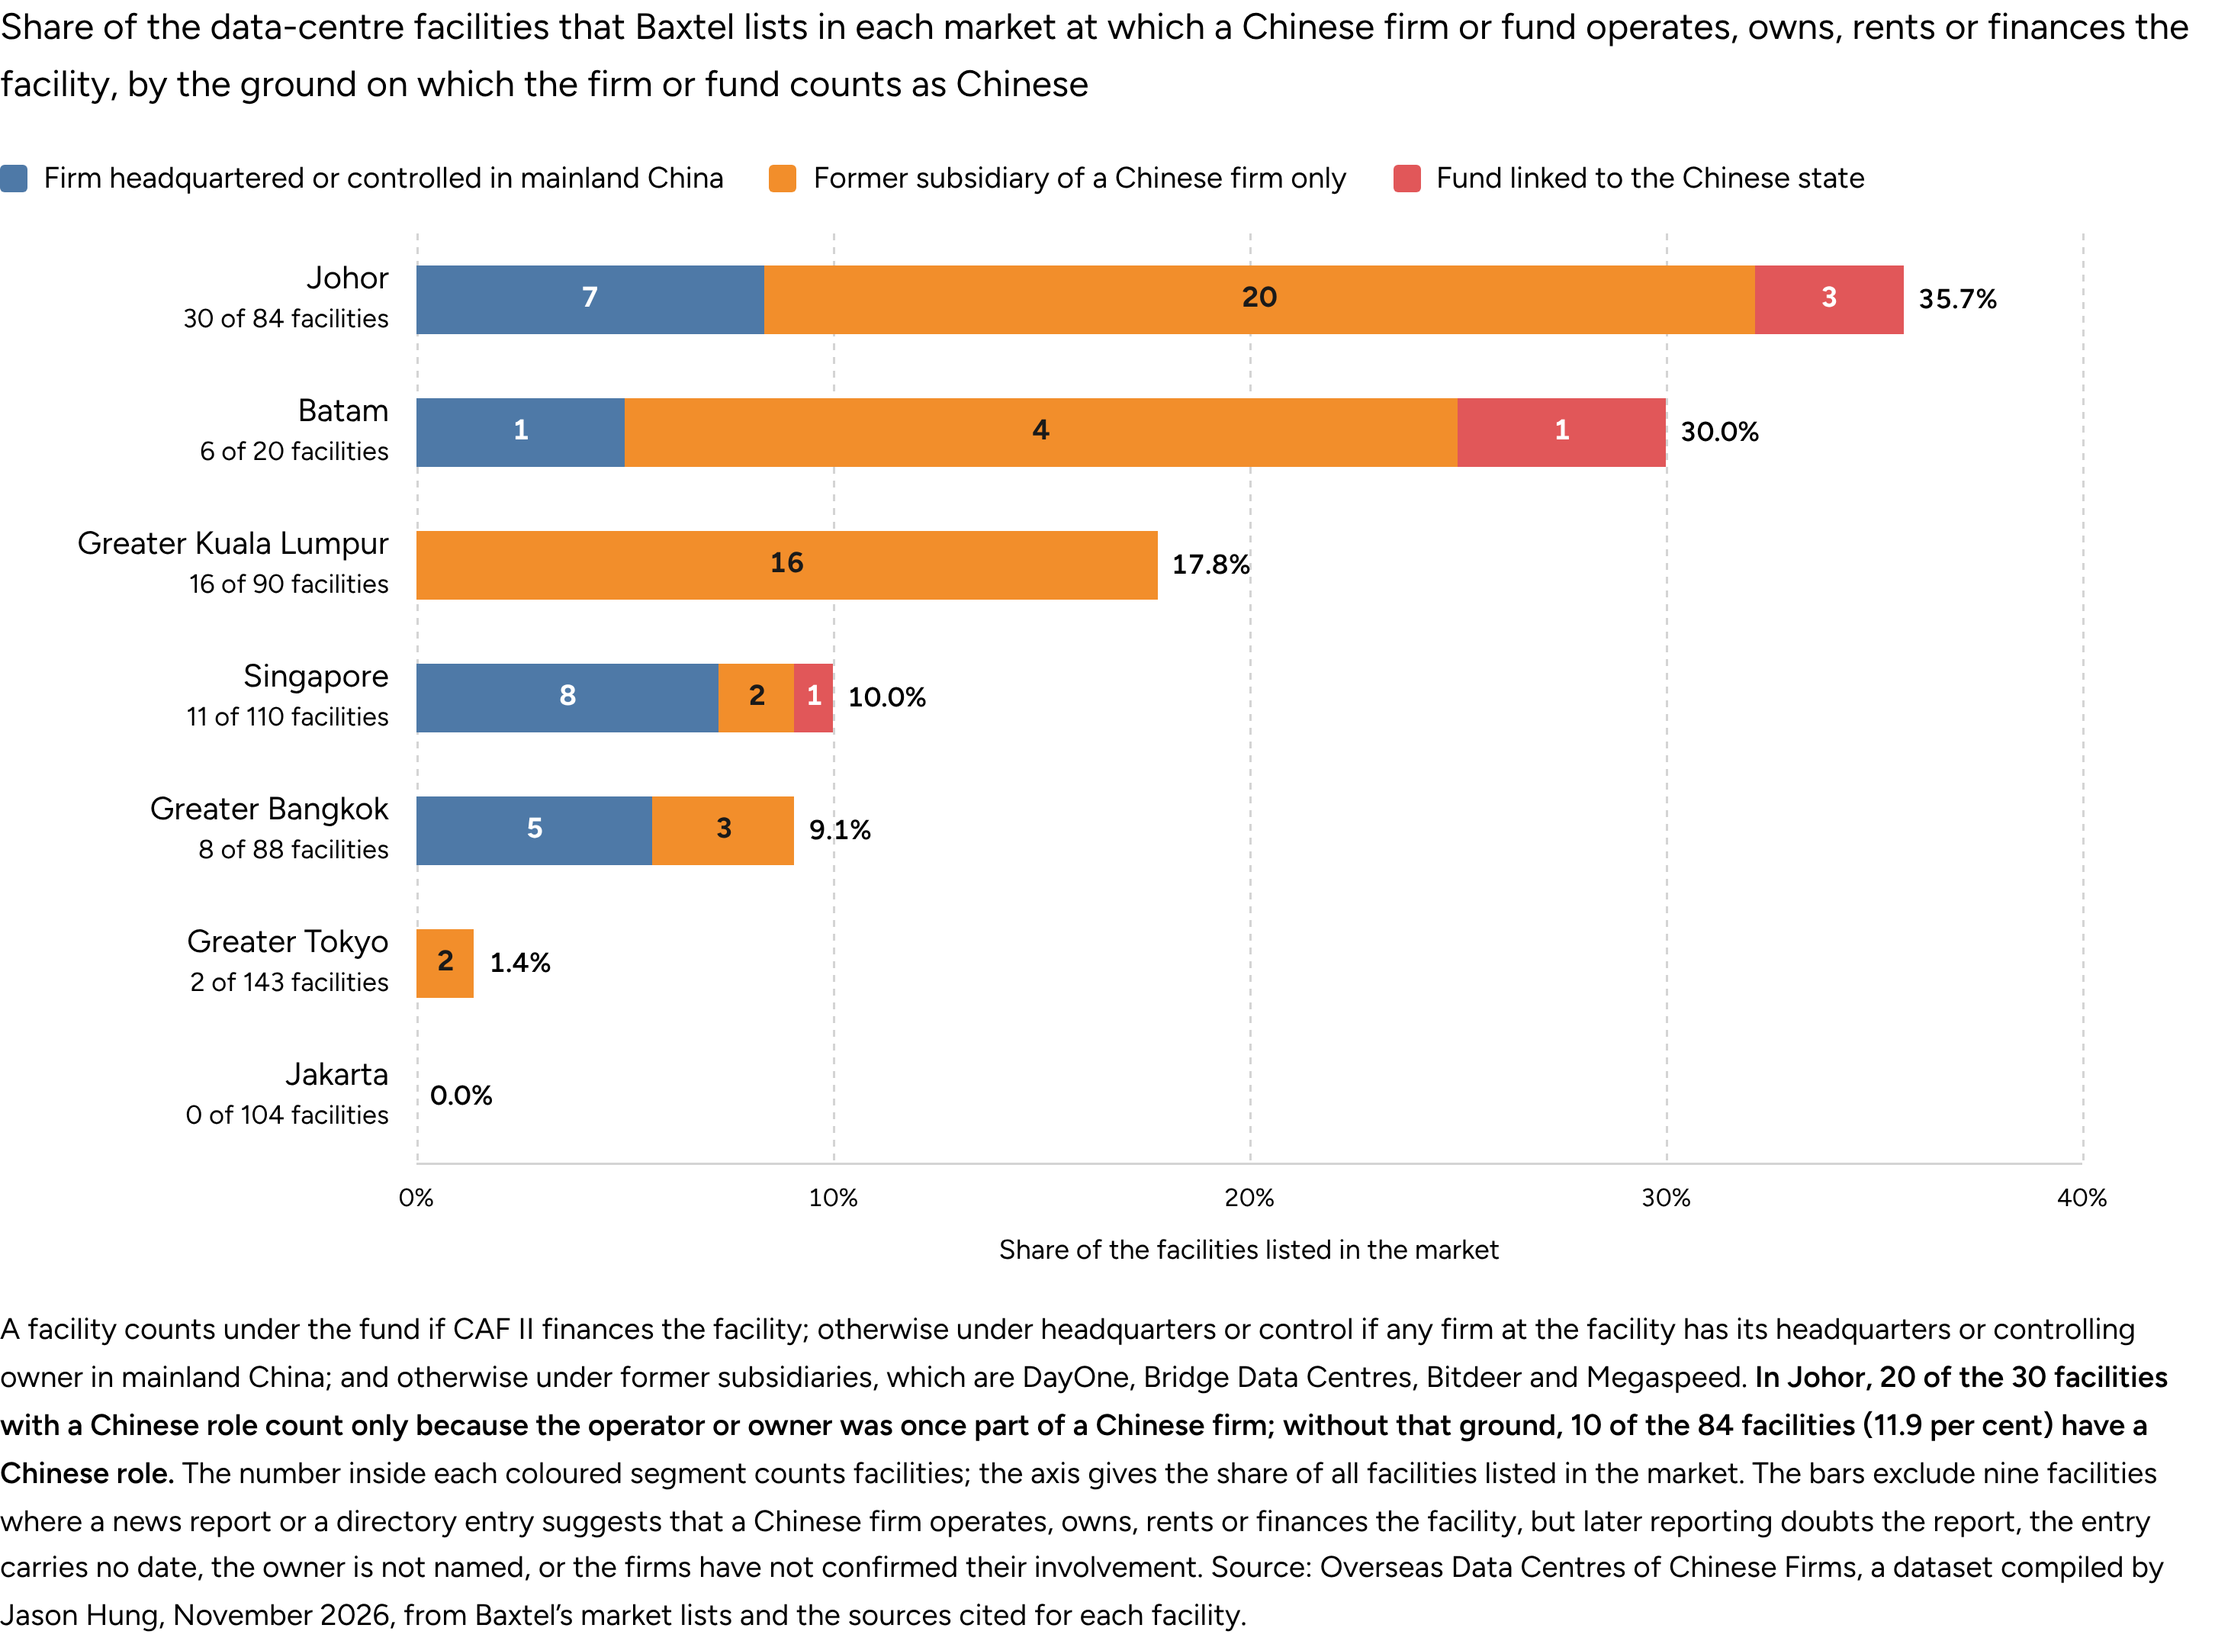
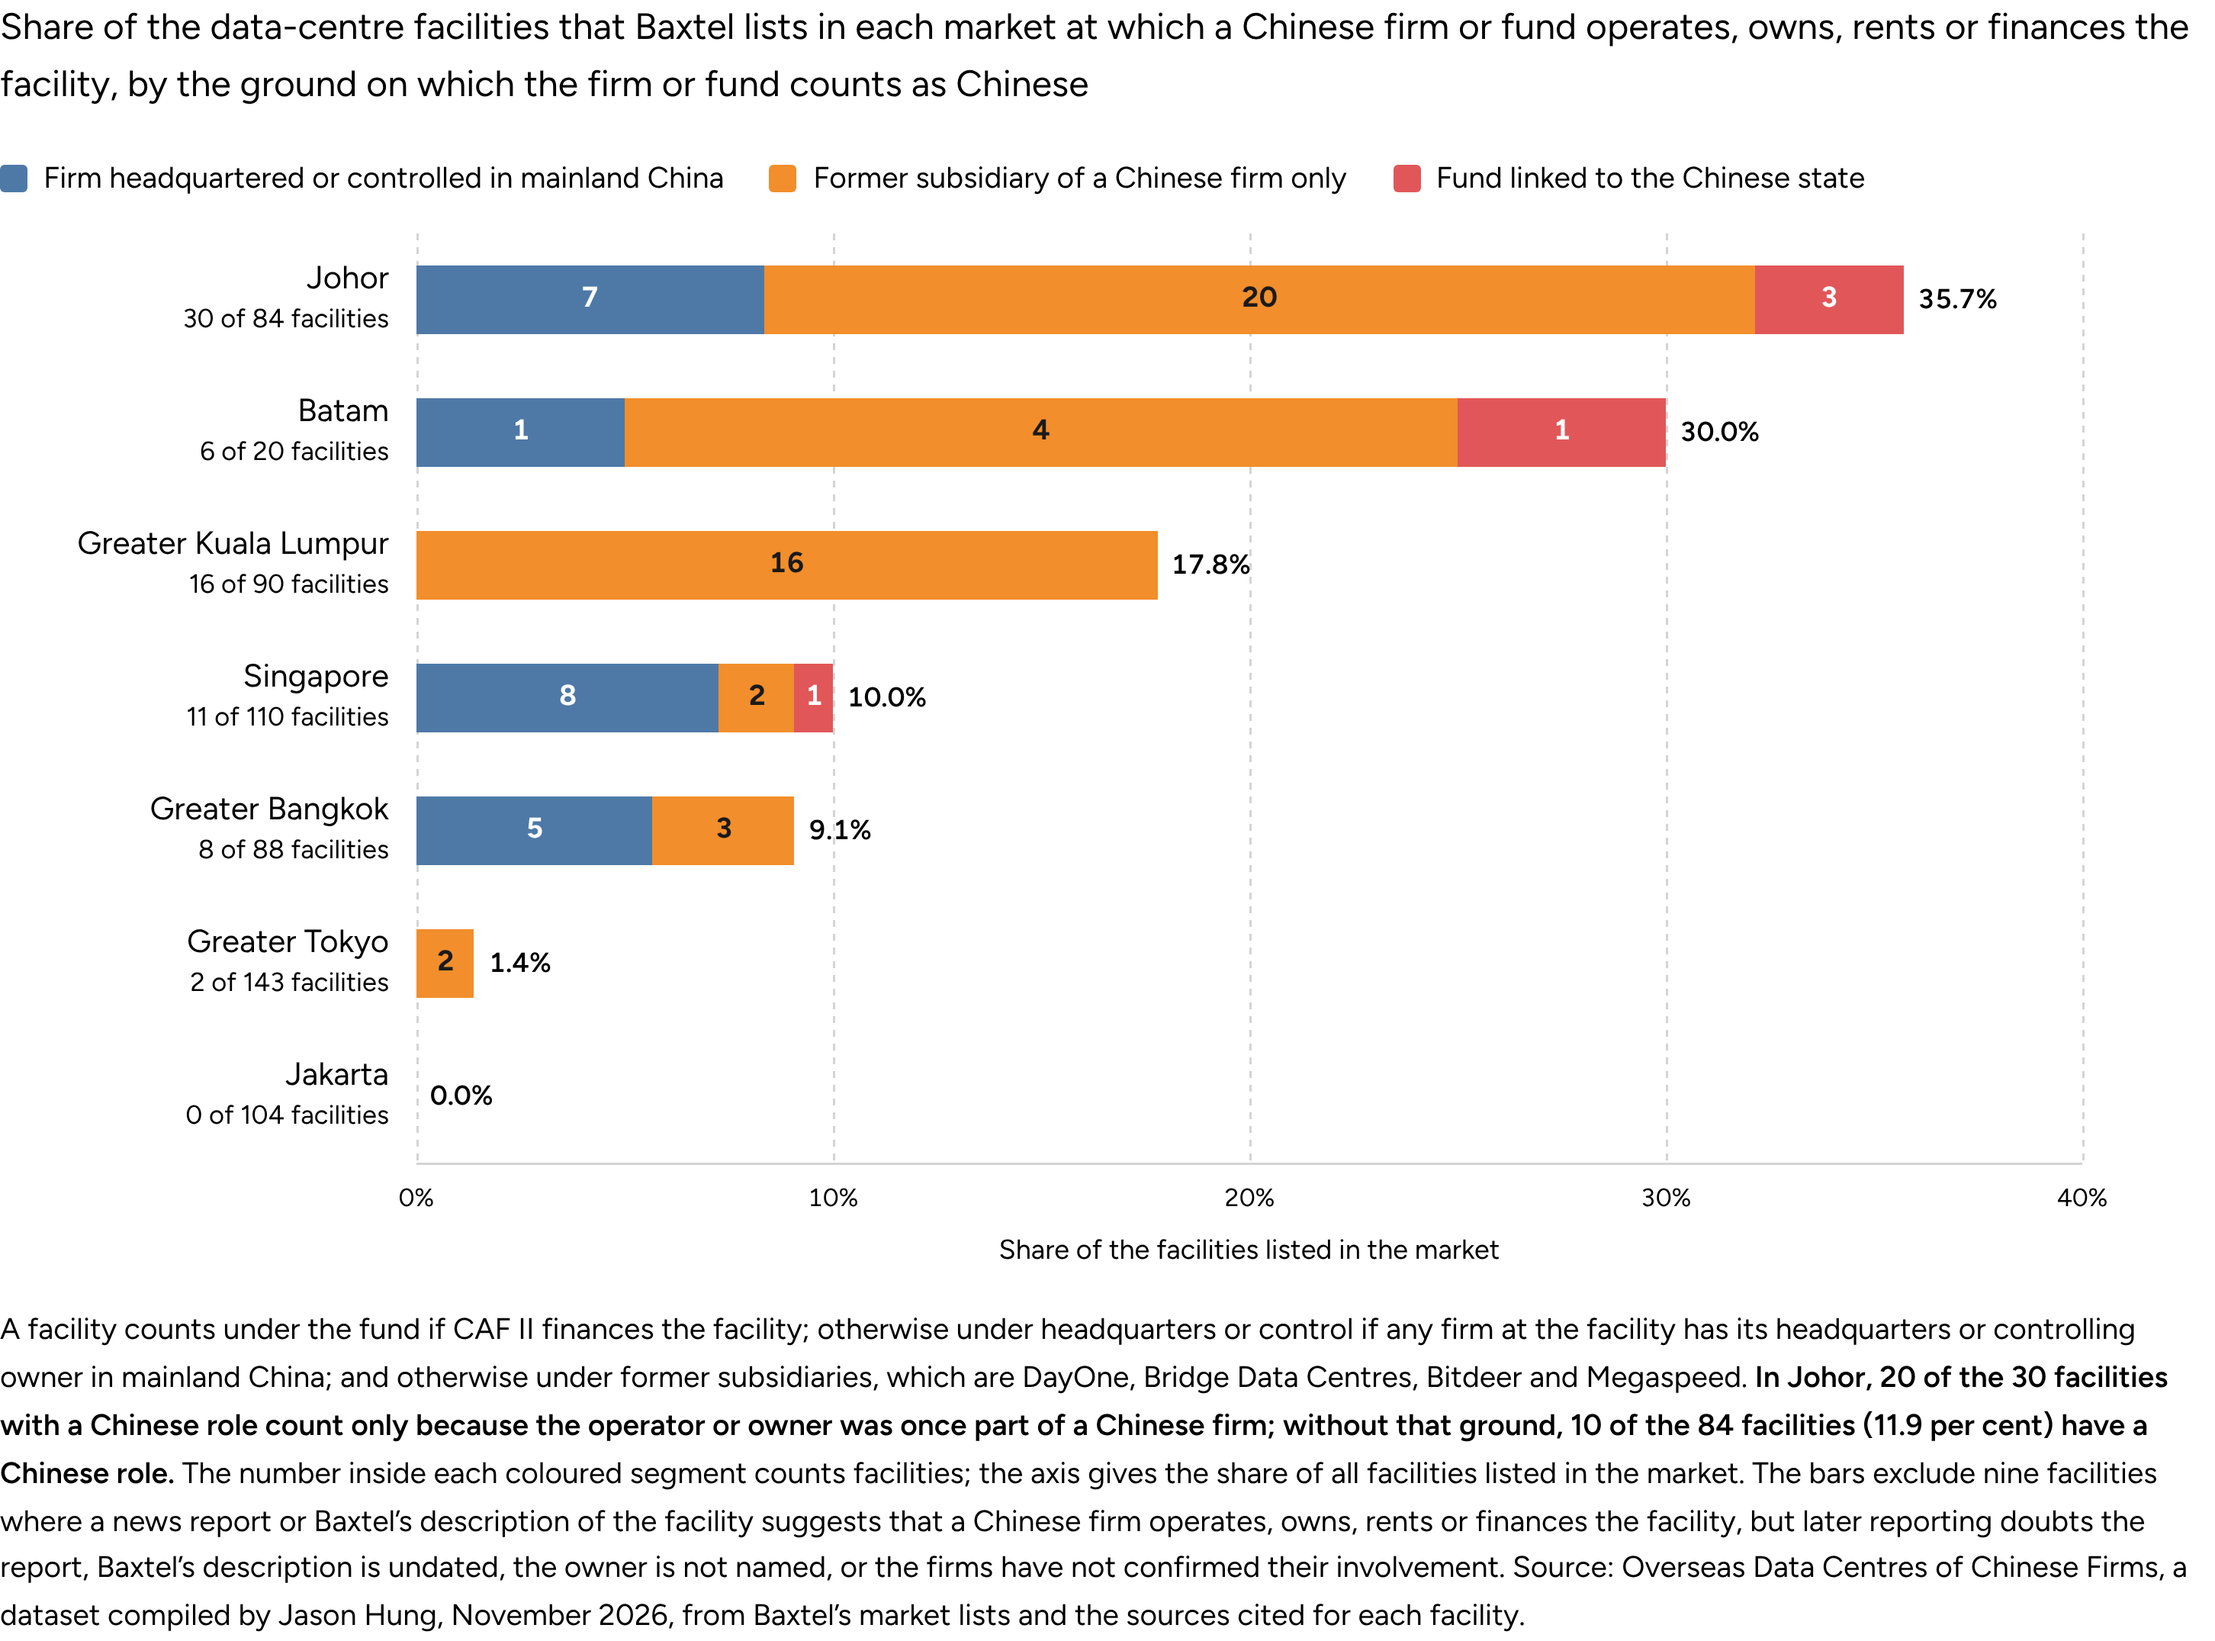
Name Baxtel's description in the note of the chart

Changed region(s): [[0.0, 0.9033, 0.9917, 0.9967]]

diff --git a/site/figures/seven-markets.html b/site/figures/seven-markets.html
@@ -791,7 +791,7 @@ headquarters or control if any firm at the facility has its headquarters or cont
 subsidiaries, which are DayOne, Bridge Data Centres, Bitdeer and Megaspeed. <b>In Johor, 20 of the 30 facilities with a Chinese role count only
 because the operator or owner was once part of a Chinese firm; without that ground, 10 of the 84 facilities (11.9 per cent) have a Chinese
 role.</b> The number inside each coloured segment counts facilities; the axis gives the share of all facilities
-listed in the market. The bars exclude nine facilities where a news report or a directory entry suggests that a Chinese firm operates, owns, rents or finances the facility, but later reporting doubts the report, the entry carries no date, the owner is not named, or the firms have not confirmed their involvement. Source: Overseas Data Centres
+listed in the market. The bars exclude nine facilities where a news report or Baxtel’s description of the facility suggests that a Chinese firm operates, owns, rents or finances the facility, but later reporting doubts the report, Baxtel’s description is undated, the owner is not named, or the firms have not confirmed their involvement. Source: Overseas Data Centres
 of Chinese Firms, a dataset compiled by Jason Hung, November 2026, from Baxtel&rsquo;s market lists and the sources cited for each facility.</p>
 </section></main><div class="fx-card" id="fx-card" hidden role="status" aria-live="polite"></div><script>
 window.fxCard=(function(){
